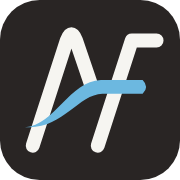
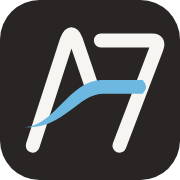
AF mark: draw the F like a 7
Claude-Session: https://claude.ai/code/session_015CisTUgFv4Vsw8V6TVV7TY

Changed region(s): [[0.5, 0.1944, 0.9167, 0.8611], [0.5, 0.1667, 0.7778, 0.4444], [0.8611, 0.1667, 0.8889, 0.1944]]

diff --git a/src/components/BrandMark.vue b/src/components/BrandMark.vue
@@ -1,7 +1,7 @@
 <script setup lang="ts">
 /**
  * The AF monogram: two slanted strokes and one ribbon swoosh that runs from the A's crossbar into
- * the F's middle bar. Letters use the current text colour; the swoosh uses the accent.
+ * the F's middle bar (the F is drawn like a 7). Letters use the current text colour; the swoosh uses the accent.
  * The favicon (public/favicon.svg) is the same drawing on an ink tile.
  */
 defineProps<{ size?: number }>()
@@ -18,7 +18,7 @@ defineProps<{ size?: number }>()
   >
     <g fill="none" stroke="currentColor" stroke-width="9" stroke-linecap="round" stroke-linejoin="round">
       <path d="M13 86 L35 18 Q38 10 41 18 L50.5 46" />
-      <path d="M55 86 L77 18 L93 18" />
+      <path d="M57 18 L90 18 Q95 18 93 23 L69 86" />
     </g>
     <path
       class="brand-swoosh"
